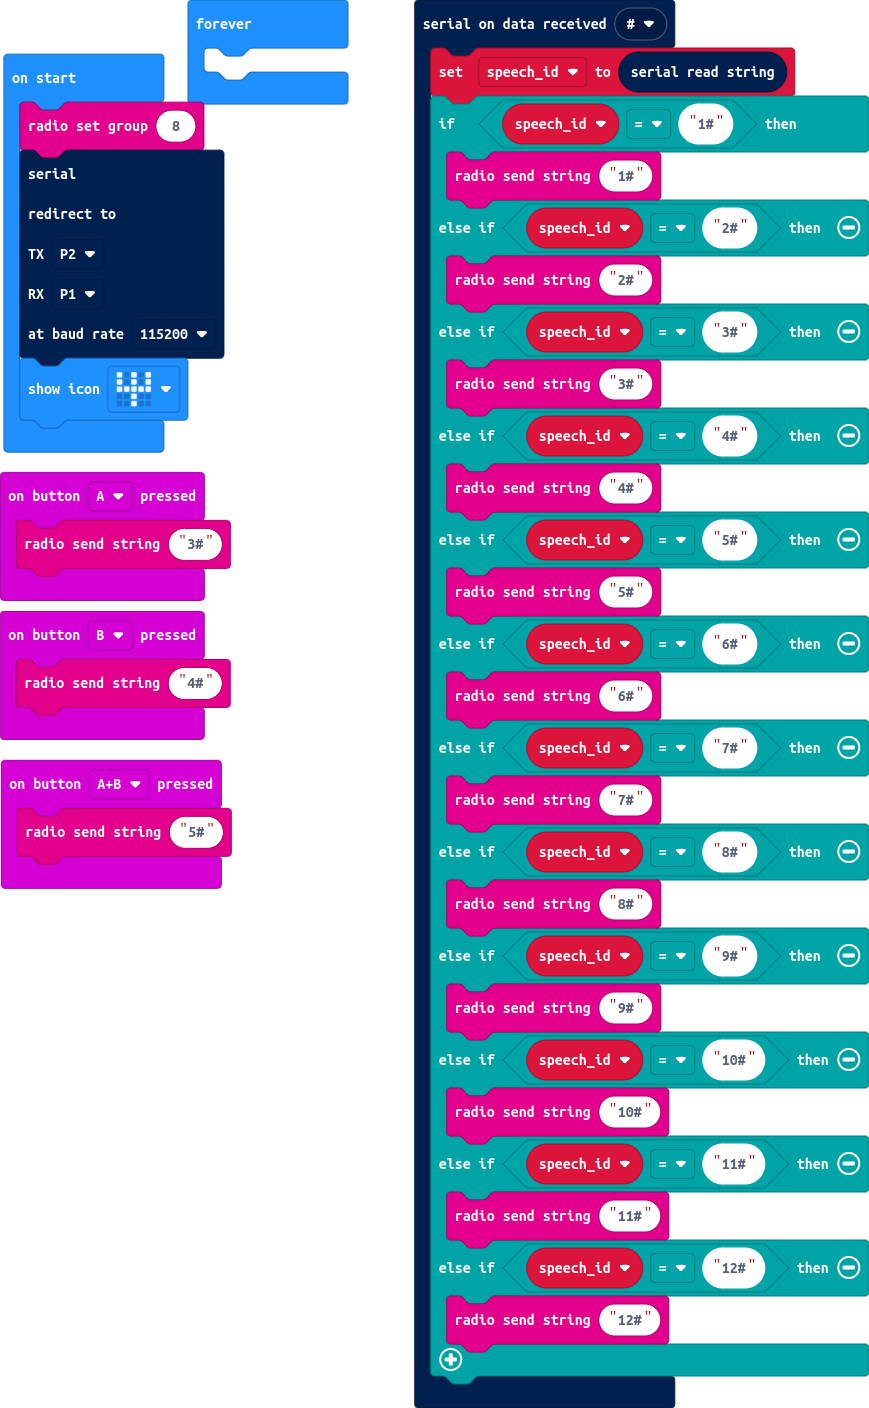
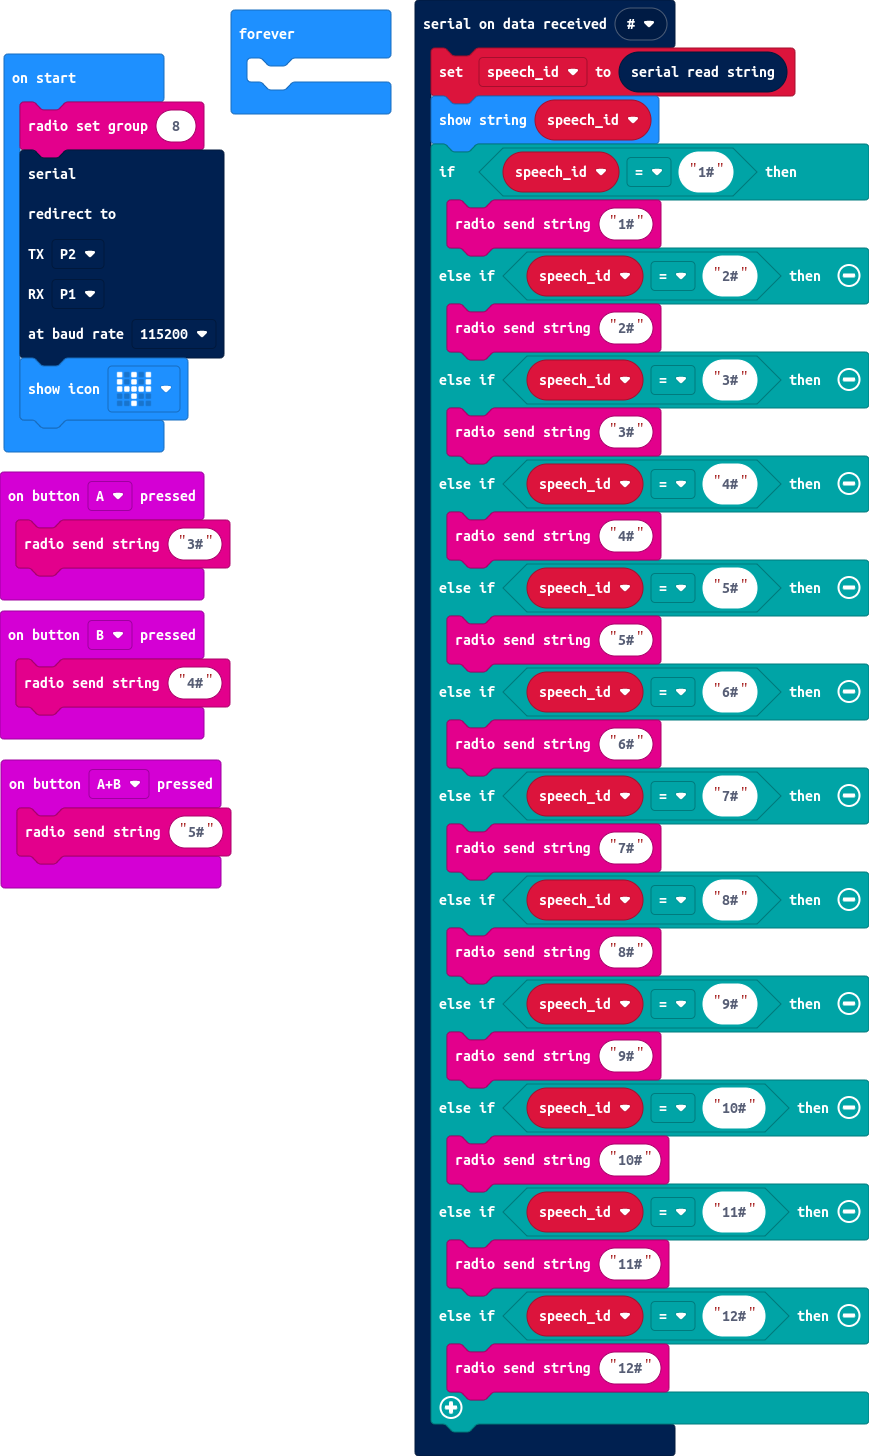
Update main.blocks, main.ts

diff --git a/main.ts b/main.ts
@@ -12,6 +12,7 @@ input.onButtonPressed(Button.B, function () {
 })
 serial.onDataReceived(serial.delimiters(Delimiters.Hash), function () {
     speech_id = serial.readString()
+    basic.showString(speech_id)
     if (speech_id == "1#") {
         radio.sendString("1#")
     } else if (speech_id == "2#") {
